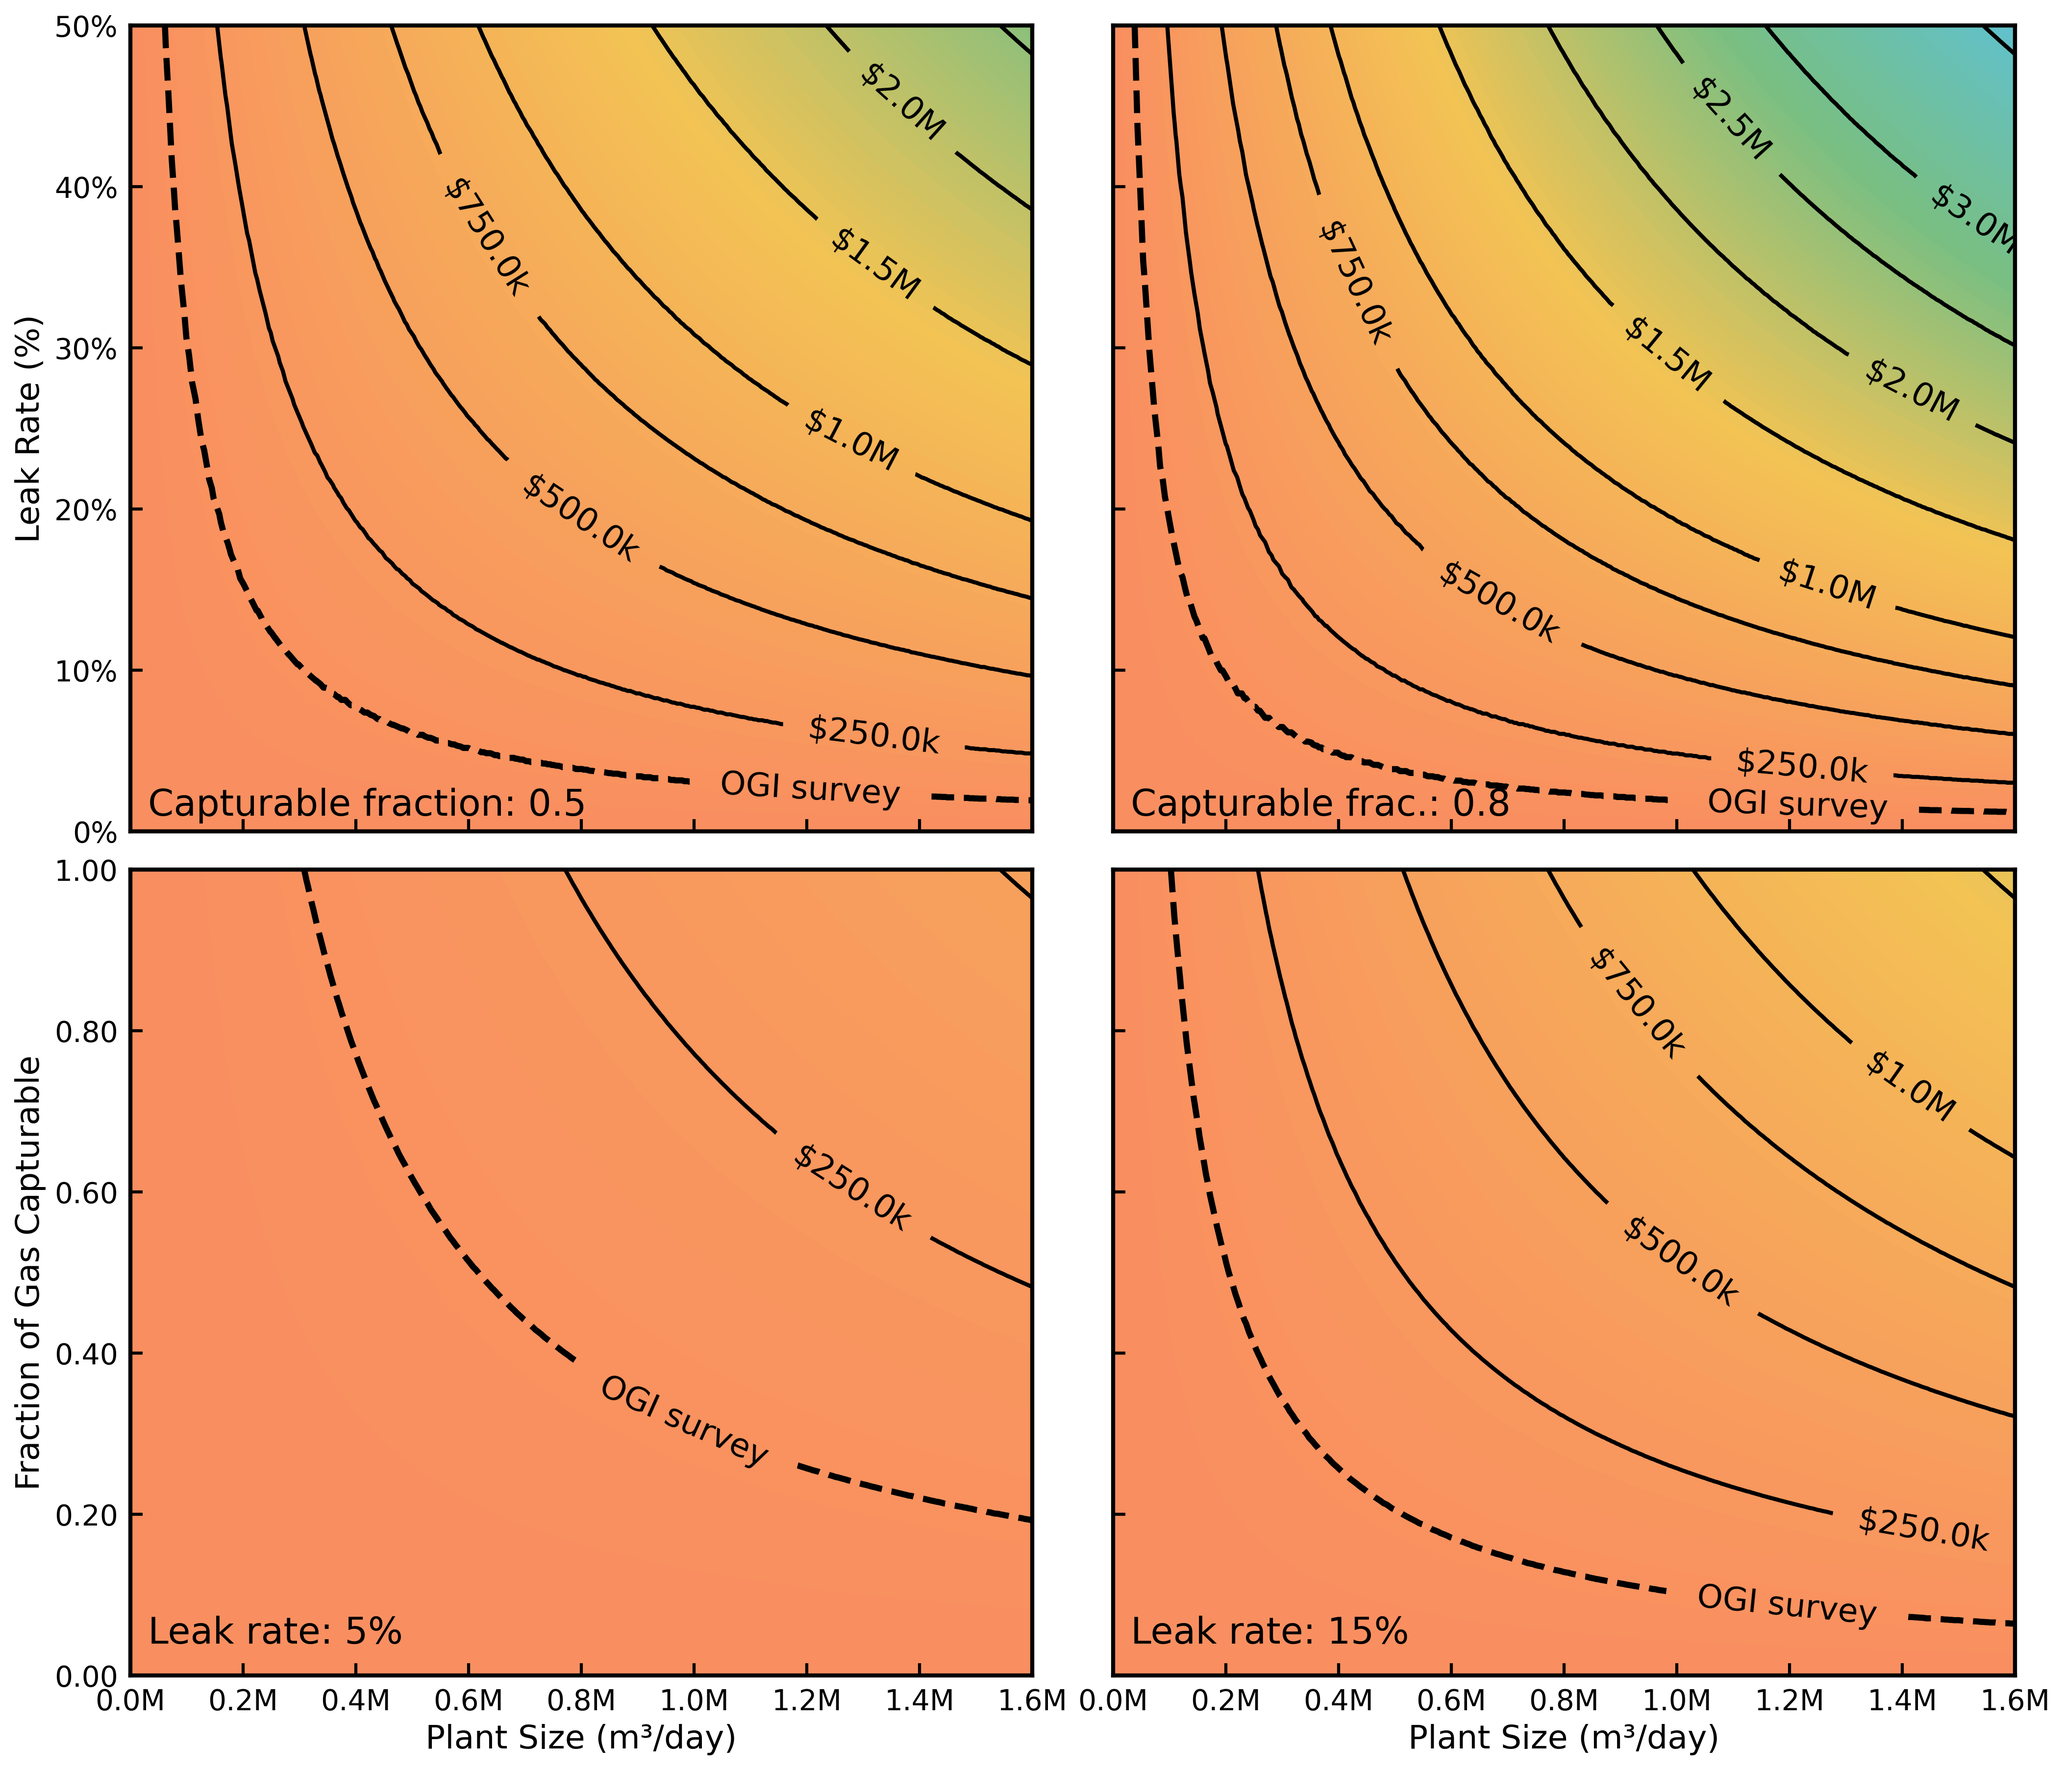
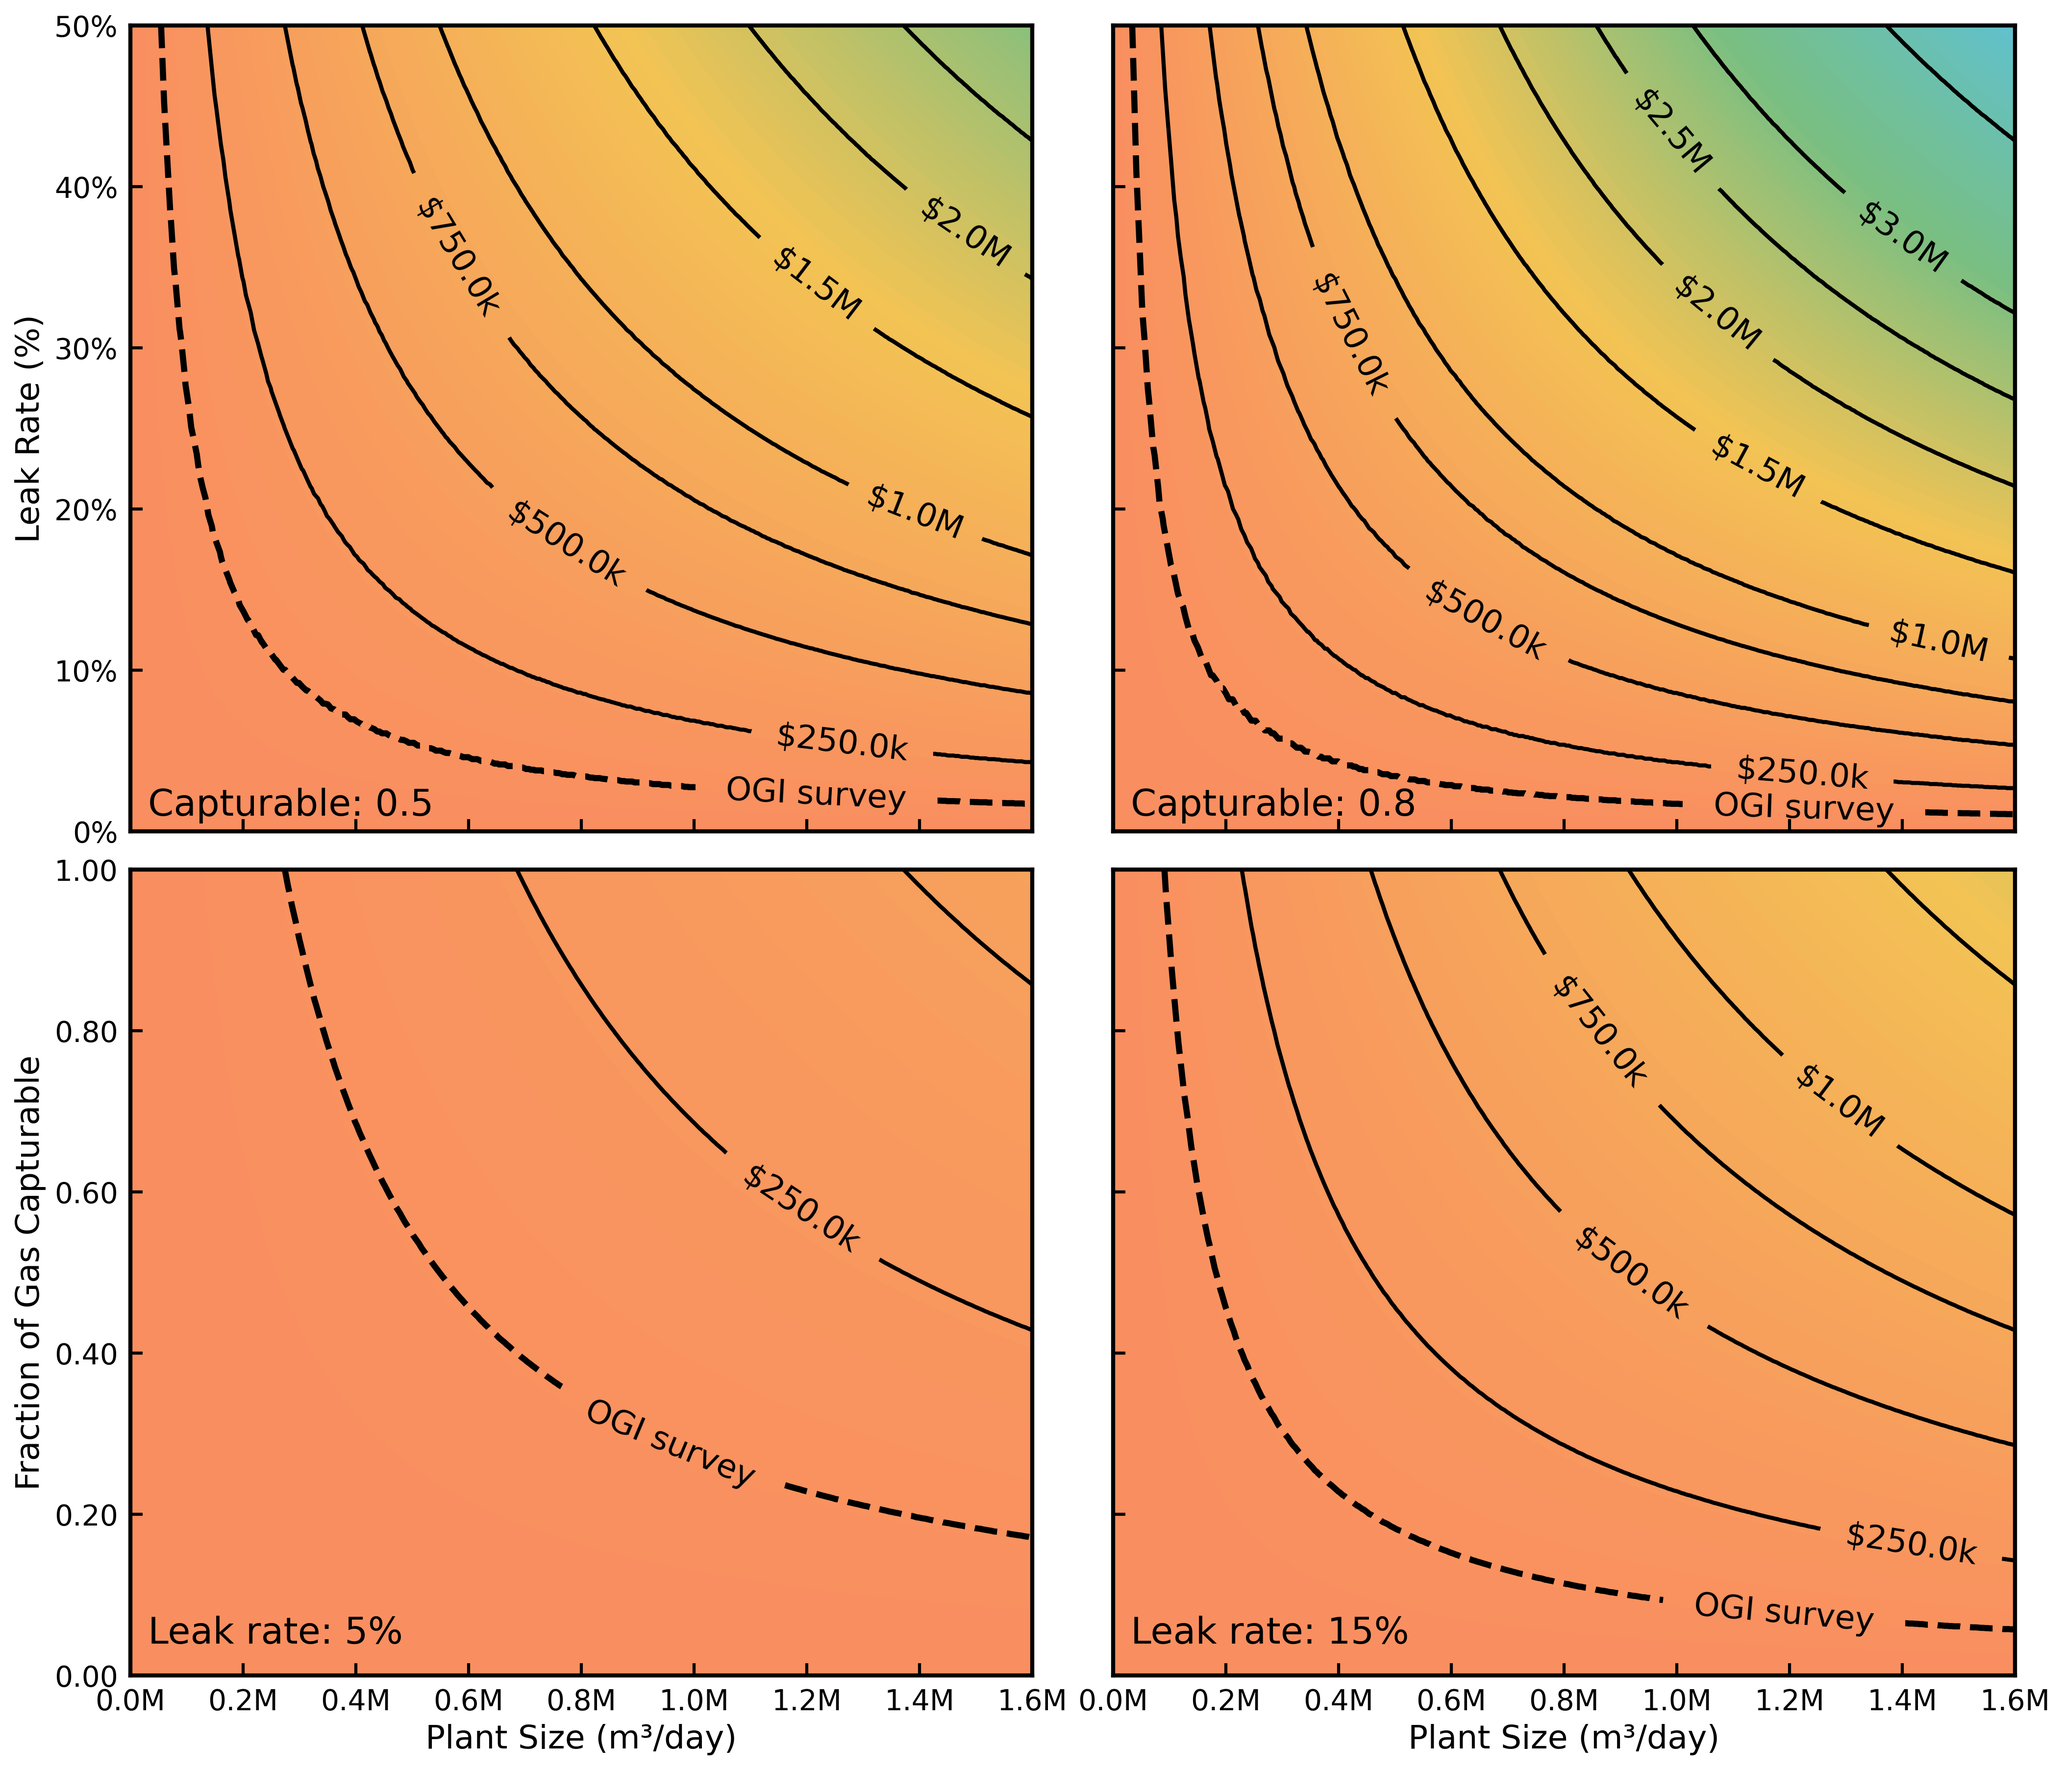
Rerun Fig 4 with modified price of electricity to $0.09/kWh

diff --git a/Fig4_economic_analysis.py b/Fig4_economic_analysis.py
@@ -12,11 +12,11 @@ import matplotlib.colors as mcolors
 import pathlib
 from c_plotting_functions import plot_methane_savings_vary_leak_rate, plot_methane_savings_vary_capturable
 
-elec_price = 0.08  # $/kWh fixed for all panels
+elec_price = 0.09  # $/kWh fixed for all panels - value based on calculations in Paper_Calculations.py, median electricity price for facilities with CHP
 max_plant_size_m3_per_day=1_600_000
 
 vmin = 0
-vmax = 4_200_000
+vmax = 4_700_000
 levels_fill = np.linspace(vmin, vmax, 100)  
 # levels_line = np.linspace(vmin, vmax, 10)    # default evenly spaced lines
 levels_line = [250_000, 500_000, 750_000, 1_000_000, 1_500_000, 2_000_000, 2_500_000, 3_000_000, 4_000_000, 5_000_000]
@@ -54,7 +54,7 @@ plot_methane_savings_vary_leak_rate(
 # (Optional) override/clarify title outside the function
 # axes[0, 0].set_title("Capturable fraction: 0.5 — vary leak rate")
 # axes[0,0].set_xticks([])  # Remove x-ticks for cleaner look
-axes[0, 0].text(0.02, 0.02, "Capturable fraction: 0.5", transform=axes[0, 0].transAxes, fontsize=18)
+axes[0, 0].text(0.02, 0.02, "Capturable: 0.5", transform=axes[0, 0].transAxes, fontsize=18)
 
 
 # Panel (0,1): capturable = 0.8
@@ -76,7 +76,7 @@ plot_methane_savings_vary_leak_rate(
 )
 
 # axes[0, 1].set_title("Capturable fraction: 0.8 — vary leak rate")
-axes[0, 1].text(0.02, 0.02, "Capturable frac.: 0.8", transform=axes[0, 1].transAxes, fontsize=18)
+axes[0, 1].text(0.02, 0.02, "Capturable: 0.8", transform=axes[0, 1].transAxes, fontsize=18)
 
 
 # ----------------------------------------
@@ -160,10 +160,194 @@ for ax in axes.flat:
 # ===========================
 # SAVE FIGURE
 # ===========================
-save_path = pathlib.Path("03_figures", "Figure_3.png")
+save_path = pathlib.Path("03_figures", "Figure_4.png")
 save_path.parent.mkdir(parents=True, exist_ok=True)
 fig.savefig(save_path, dpi=300, bbox_inches='tight', transparent=False)
 print(f"Plot saved to: {save_path.resolve()}")
+
+#%%
+### CHANGE ELECTRICITY PRICE 
+import pandas as pd 
+import matplotlib.pyplot as plt
+import numpy as np
+import pandas as pd
+import matplotlib.colors as mcolors
+import pathlib
+from c_plotting_functions import plot_methane_savings_vary_leak_rate, plot_methane_savings_vary_capturable
+
+max_plant_size_m3_per_day=1_600_000
+
+vmin = 0
+vmax = 9_200_000
+levels_fill = np.linspace(vmin, vmax, 100)  
+# levels_line = np.linspace(vmin, vmax, 10)    # default evenly spaced lines
+levels_line = [250_000, 500_000, 750_000, 1_000_000, 1_500_000, 2_000_000, 2_500_000, 
+               3_000_000, 4_000_000, 5_000_000, 6_000_000, 7_000_000, 8_000_000, 9_000_000]
+
+
+# Shared cmap/norm for positives
+b, g, y, o, r = "#60C1CF", "#79BF82", "#F3C354", "#F98F60", "#ED586F"
+shared_cmap = mcolors.LinearSegmentedColormap.from_list('custom_map', [o, y, g, b])
+shared_norm = mcolors.BoundaryNorm(levels_fill, ncolors=shared_cmap.N, clip=True)
+
+
+fig, axes = plt.subplots(2, 2, figsize=(14, 12))
+
+
+# -------------------------
+# Top row — $0.09 / kWh
+# -------------------------
+
+elec_price = 0.08  # $/kWh fixed for all panels
+
+# Panel (0,0): capturable = 0.5
+params = {"leak_fraction_capturable": 0.5, "electricity_price_per_kWh": elec_price}
+plot_methane_savings_vary_leak_rate(
+    leak_fraction_capturable=0.5,
+    electricity_price_per_kWh=elec_price,
+    ogi_cost=100000,
+    plant_sizes_m3_per_day_range=(0, max_plant_size_m3_per_day),
+    leak_rates=np.linspace(0, 0.50, 200),
+    engine_efficiency=0.45,
+    fig=fig,
+    ax=axes[0, 0],
+    levels_line=levels_line,
+    levels_fill=levels_fill,
+    norm=shared_norm,
+    cmap=shared_cmap,
+    title=False  
+)
+# (Optional) override/clarify title outside the function
+# axes[0, 0].set_title("Capturable fraction: 0.5 — vary leak rate")
+# axes[0,0].set_xticks([])  # Remove x-ticks for cleaner look
+axes[0, 0].text(0.02, 0.02, "Capturable fraction: 0.5", transform=axes[0, 0].transAxes, fontsize=18)
+axes[0, 0].text(0.02, 0.1, "$0.08/kWh", transform=axes[0, 0].transAxes, fontsize=18)
+
+
+# Panel (0,1): capturable = 0.8
+params = {"leak_fraction_capturable": 0.8, "electricity_price_per_kWh": elec_price}
+plot_methane_savings_vary_leak_rate(
+    leak_fraction_capturable=0.8,
+    electricity_price_per_kWh=elec_price,
+    leak_rates=np.linspace(0, 0.50, 200),
+    engine_efficiency=0.45,
+    plant_sizes_m3_per_day_range=(0, max_plant_size_m3_per_day),
+    ogi_cost=100000,
+    fig=fig,
+    ax=axes[0, 1],
+    levels_line=levels_line,
+    cmap=shared_cmap,
+    title=False,
+    levels_fill=levels_fill,
+    norm=shared_norm,
+)
+
+# axes[0, 1].set_title("Capturable fraction: 0.8 — vary leak rate")
+axes[0, 1].text(0.02, 0.02, "Capturable frac.: 0.8", transform=axes[0, 1].transAxes, fontsize=18)
+axes[0, 1].text(0.02, 0.1, "$0.08/kWh", transform=axes[0, 1].transAxes, fontsize=18)
+
+# -------------------------
+# Bottom row — $0.18/kWh 
+# -------------------------
+
+elec_price = 0.18  # $/kWh fixed for all panels
+
+# Panel (0,0): capturable = 0.5
+params = {"leak_fraction_capturable": 0.5, "electricity_price_per_kWh": elec_price}
+plot_methane_savings_vary_leak_rate(
+    leak_fraction_capturable=0.5,
+    electricity_price_per_kWh=elec_price,
+    ogi_cost=100000,
+    plant_sizes_m3_per_day_range=(0, max_plant_size_m3_per_day),
+    leak_rates=np.linspace(0, 0.50, 200),
+    engine_efficiency=0.45,
+    fig=fig,
+    ax=axes[1, 0],
+    levels_line=levels_line,
+    levels_fill=levels_fill,
+    norm=shared_norm,
+    cmap=shared_cmap,
+    title=False  
+)
+# (Optional) override/clarify title outside the function
+# axes[0, 0].set_title("Capturable fraction: 0.5 — vary leak rate")
+# axes[0,0].set_xticks([])  # Remove x-ticks for cleaner look
+axes[1, 0].text(0.02, 0.02, "Capturable fraction: 0.5", transform=axes[1, 0].transAxes, fontsize=18)
+axes[1, 0].text(0.02, 0.1, "$0.18/kWh", transform=axes[1, 0].transAxes, fontsize=18)
+
+
+# Panel (0,1): capturable = 0.8
+params = {"leak_fraction_capturable": 0.8, "electricity_price_per_kWh": elec_price}
+plot_methane_savings_vary_leak_rate(
+    leak_fraction_capturable=0.8,
+    electricity_price_per_kWh=elec_price,
+    leak_rates=np.linspace(0, 0.50, 200),
+    engine_efficiency=0.45,
+    plant_sizes_m3_per_day_range=(0, max_plant_size_m3_per_day),
+    ogi_cost=100000,
+    fig=fig,
+    ax=axes[1, 1],
+    levels_line=levels_line,
+    cmap=shared_cmap,
+    title=False,
+    levels_fill=levels_fill,
+    norm=shared_norm,
+)
+
+# axes[0, 1].set_title("Capturable fraction: 0.8 — vary leak rate")
+axes[1, 1].text(0.02, 0.02, "Capturable frac.: 0.8", transform=axes[1, 1].transAxes, fontsize=18)
+axes[1, 1].text(0.02, 0.1, "$0.18/kWh", transform=axes[1, 1].transAxes, fontsize=18)
+
+
+#### FORMATTING ####
+
+
+plt.tight_layout()
+
+# Increase tick label size in all subplots
+for ax in axes.flat:
+    
+    ax.tick_params(labelsize=14, direction='in', length=5, width=1.5, pad=6)
+    
+    for spine in ax.spines.values():
+        spine.set_linewidth(2)  # thickness in points
+
+
+# Axes and tick labels for combined figure: 
+
+# TOP LEFT
+axes[0, 0].set_xlabel(None) # Remove xlabel to avoid clutter
+axes[0,0].set_xticklabels([])  # Remove x-ticks for cleaner look
+
+# TOP RIGHT
+axes[0, 1].set_xlabel(None) # Remove xlabel to avoid clutter
+axes[0,1].set_xticklabels([])  # Remove x-ticks for cleaner look
+axes[0,1].set_yticklabels([])  # Remove y-ticks for cleaner look
+axes[0,1].set_ylabel(None)  # Remove ylabel to avoid clutter
+
+# BOTTOM RIGHT
+axes[1,1].set_yticklabels([])  # Remove x-ticks for cleaner look
+axes[1,1].set_ylabel(None)  # Remove x-ticks for cleaner look
+
+plt.tight_layout(pad=0.5, w_pad=0.5, h_pad=0.5)
+plt.show()
+
+for ax in axes.flat:
+    ax.set_xlabel(ax.get_xlabel(), fontsize=16)  # bump x-axis label font size
+    ax.set_ylabel(ax.get_ylabel(), fontsize=16)  # bump y-axis label font size
+
+for ax in axes.flat:
+    ax.tick_params(axis="both", which="major", labelsize=14, length=6, width=1.5, direction="in", pad=6)
+
+
+# ===========================
+# SAVE FIGURE
+# ===========================
+save_path = pathlib.Path("03_figures", "Figure_4_electricity.png")
+save_path.parent.mkdir(parents=True, exist_ok=True)
+fig.savefig(save_path, dpi=300, bbox_inches='tight', transparent=False)
+print(f"Plot saved to: {save_path.resolve()}")
+
 # %%
 
 # #%% 
